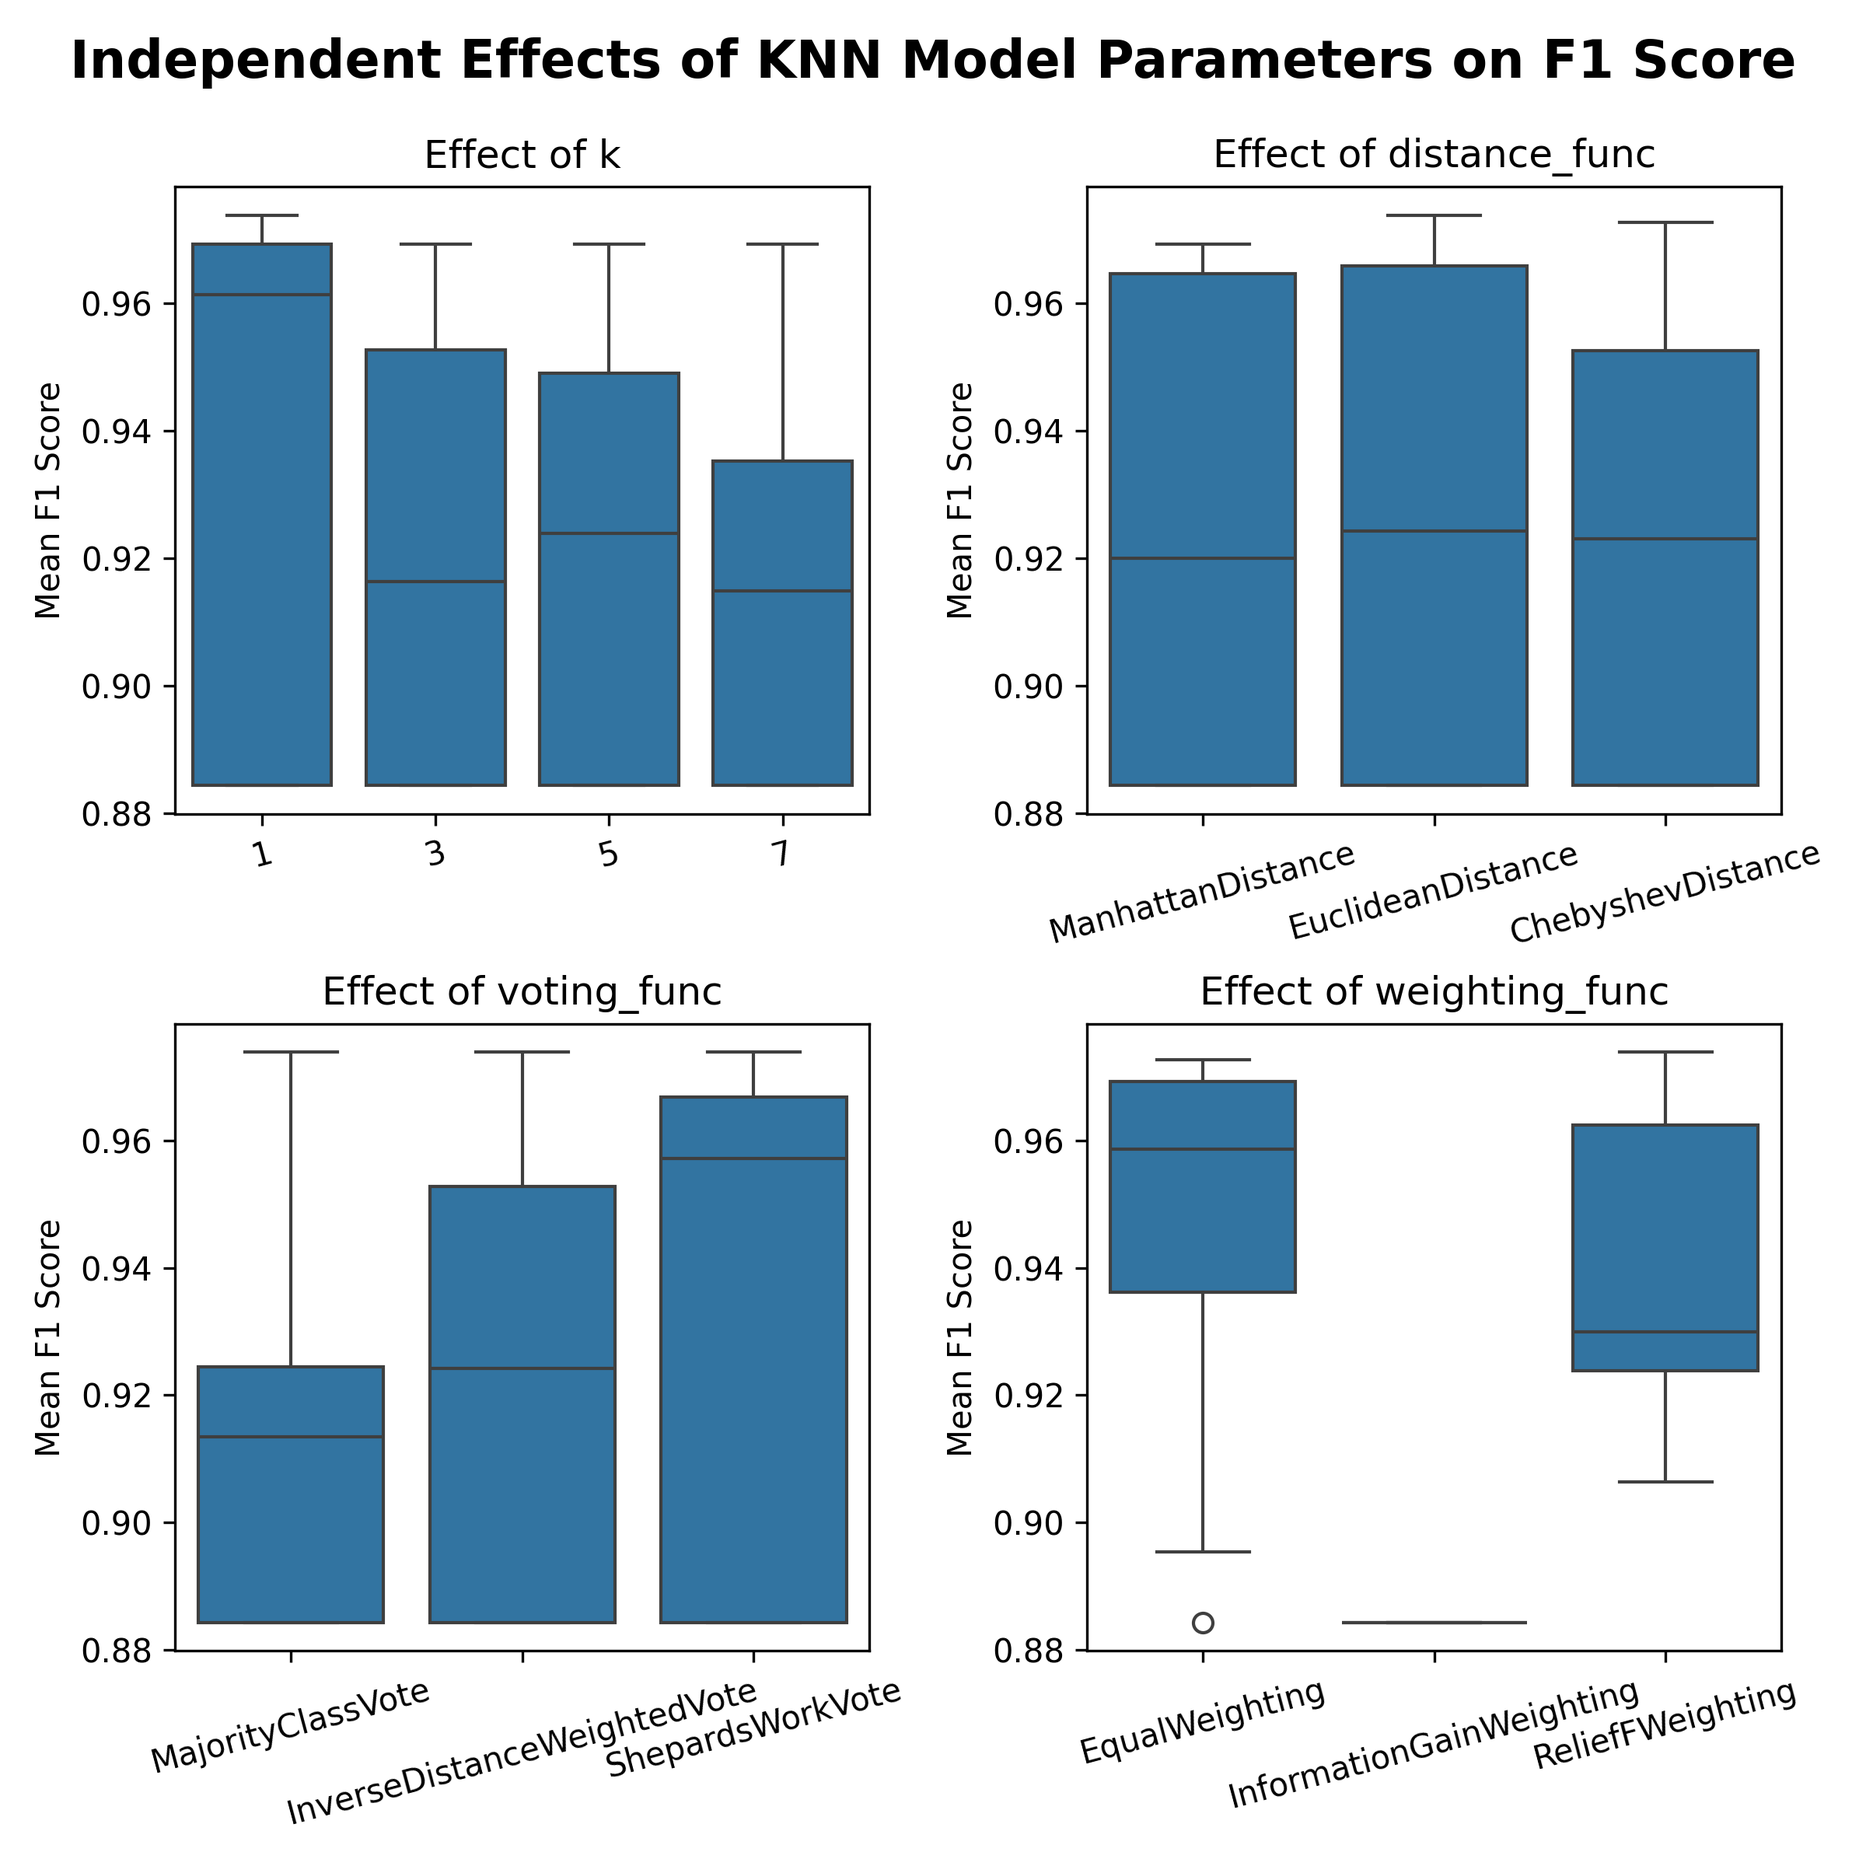
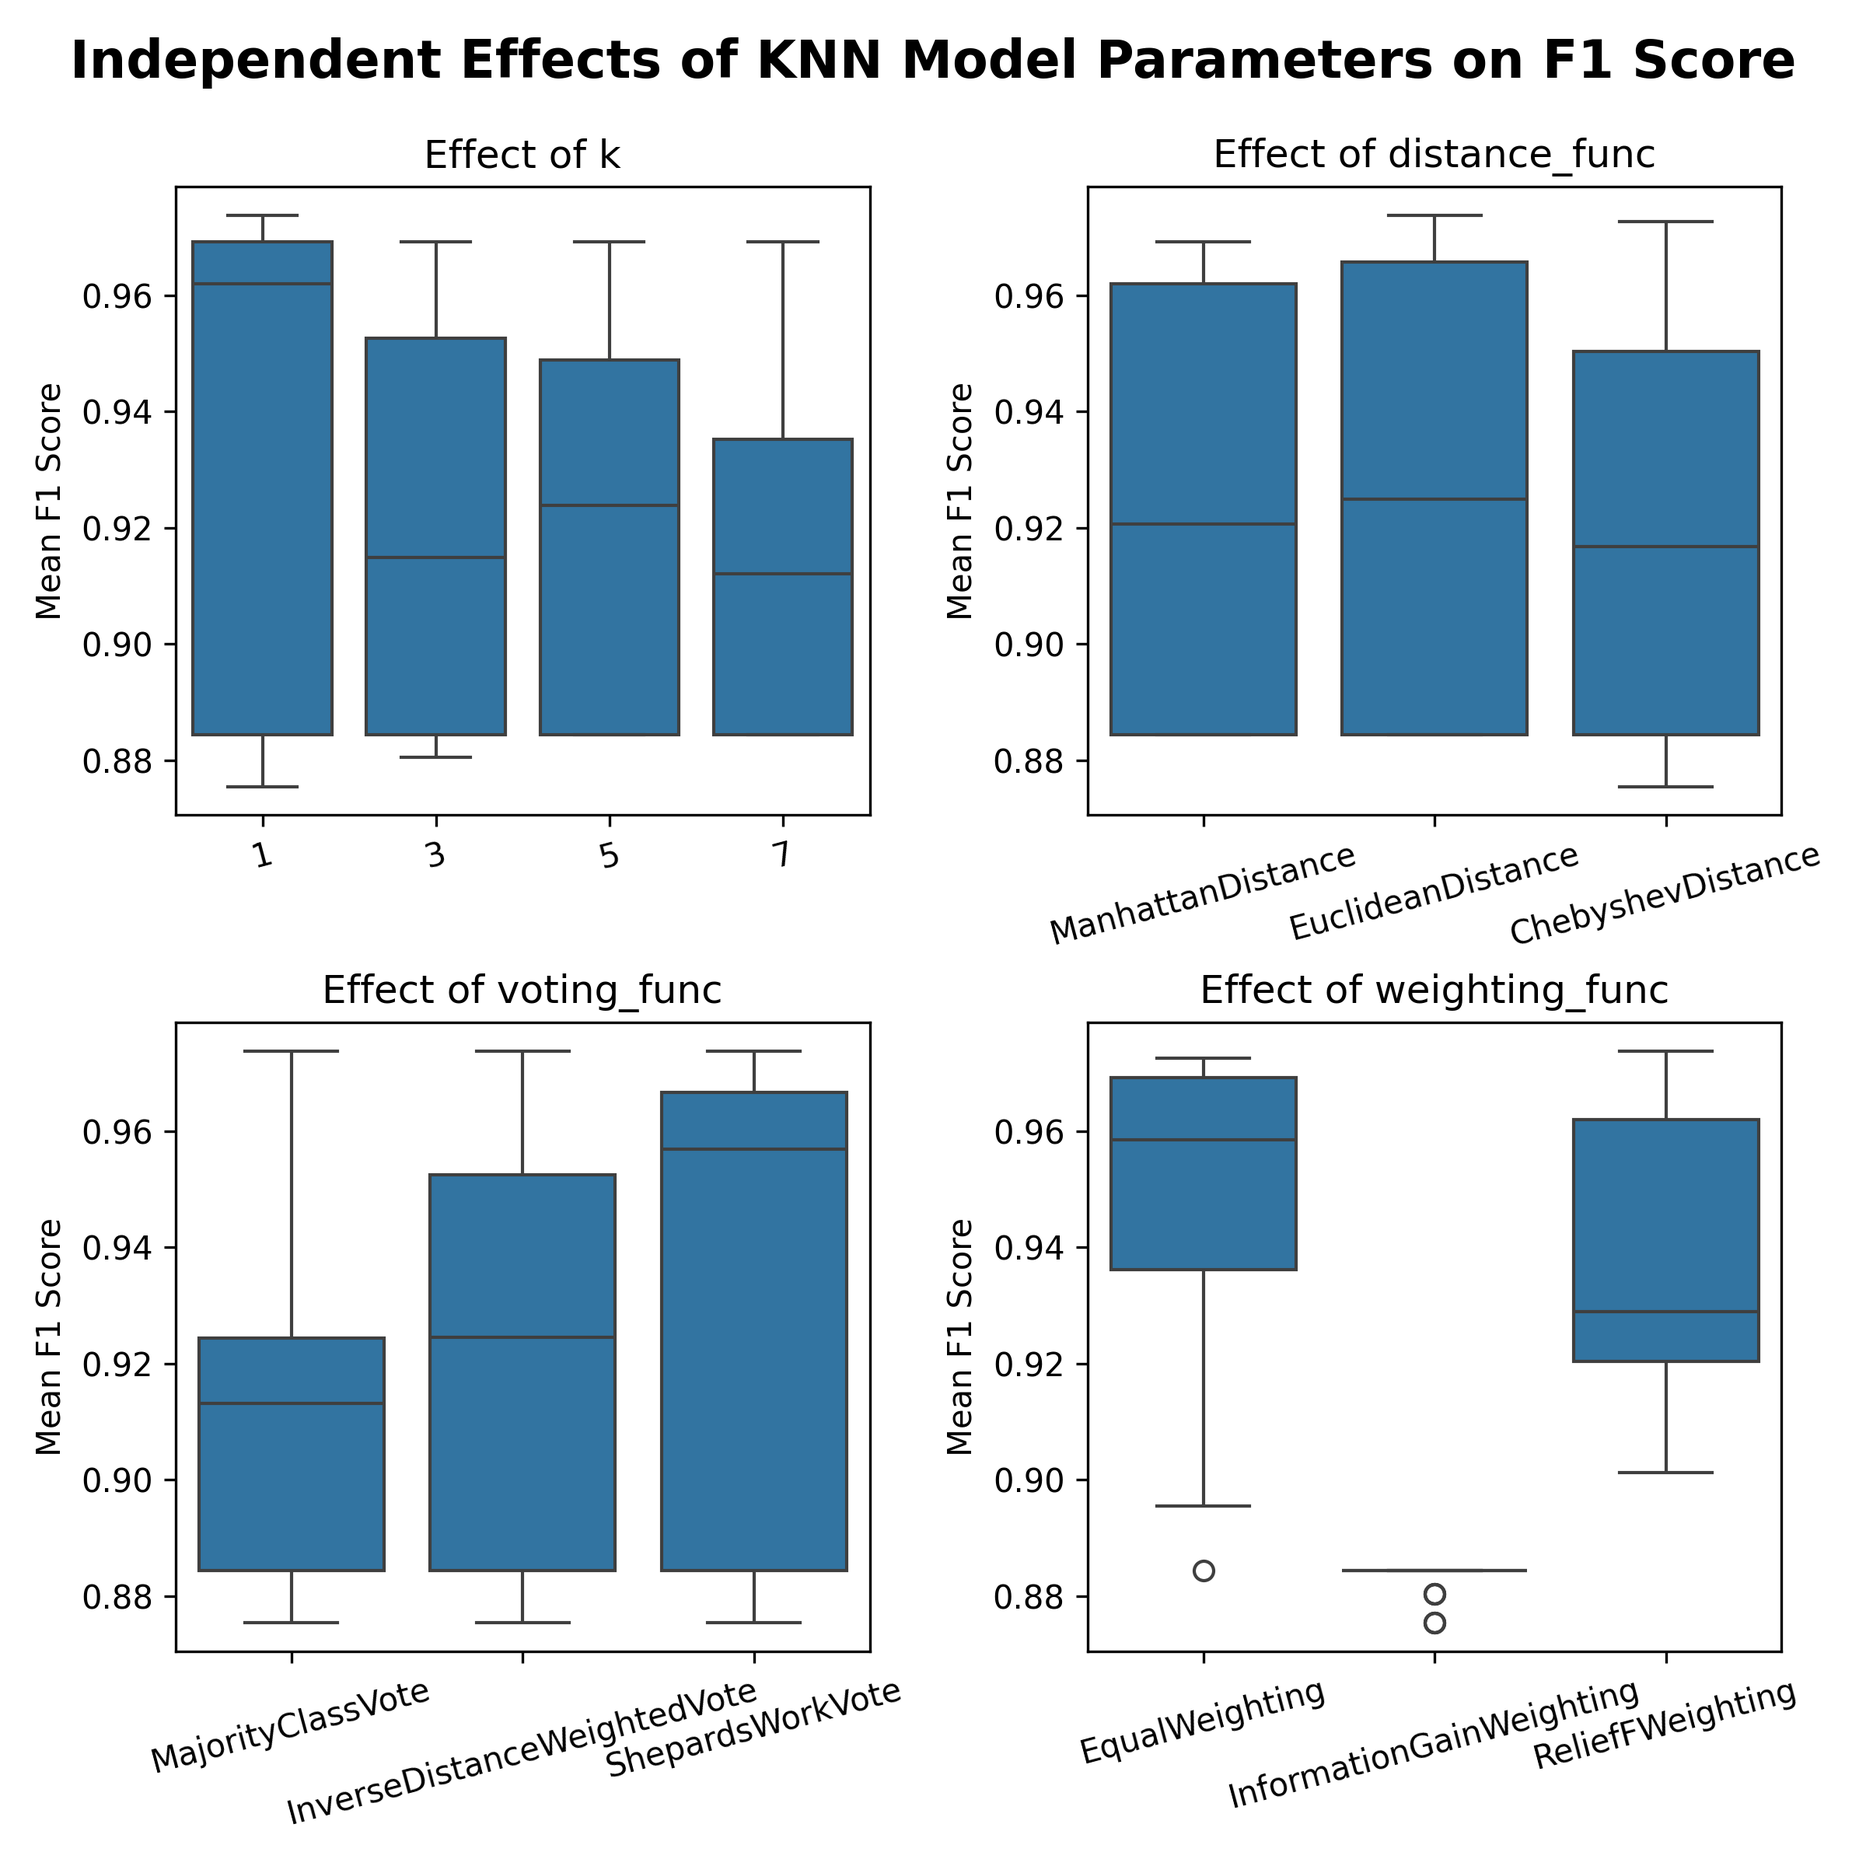
add work2/tools/analysis/statistical_analysis_tools.py and work2/tools/analysis/run_statistical_analysis.py

diff --git a/work2/tools/analysis/statistical_analysis_tools.py b/work2/tools/analysis/statistical_analysis_tools.py
@@ -1,0 +1,216 @@
+import pandas as pd
+import numpy as np
+from scipy import stats
+import scikit_posthocs as sp
+import matplotlib.pyplot as plt
+import seaborn as sns
+import itertools
+import math
+
+plt.style.use('default')
+
+def friedman_test(df_with_f1_per_fold, fold_cols):
+    results = {
+        i: df_with_f1_per_fold.loc[i, fold_cols] for i in df_with_f1_per_fold.index
+    }
+    f1_df = pd.DataFrame(results)
+    statistic, p_value = stats.friedmanchisquare(*[f1_df[k] for k in f1_df])
+    return statistic, p_value
+
+def linear_sample(df_with_f1_per_fold, num_samples=8):
+    num_samples = min(num_samples, len(df_with_f1_per_fold))
+    samples_indices = np.linspace(0, len(df_with_f1_per_fold)-1, num_samples, dtype=int)
+    return df_with_f1_per_fold.loc[samples_indices, :]
+
+def top_samples(df_with_f1_per_fold, num_samples=8):
+    num_samples = min(num_samples, len(df_with_f1_per_fold))
+    return df_with_f1_per_fold.sort_values(by='mean_f1_score', ascending=False).head(num_samples)
+
+def get_p_values_df(model_results_dfs, models=['KNN', 'SVM', 'KNN-Reduction'], num_sample_options=[4, 8, 16], sample_types=['linear', 'top']):
+    data = []
+
+    for sample_type, num_samples, (model, df) in itertools.product(sample_types, num_sample_options, zip(models, model_results_dfs)):
+        sample_func = linear_sample if sample_type == 'linear' else top_samples
+
+        p_value = friedman_test(sample_func(df, num_samples))[1]
+        data.append({
+            'model': model,
+            'num_samples': num_samples,
+            'sample_type': sample_type,
+            'p_value': p_value,
+            'significant': p_value < 0.05
+        })
+
+    return pd.DataFrame(data)
+
+# TODO: only plot one point for KNN-Reduction
+def plot_p_values_vs_num_samples(axes, p_values_df, models, sample_types, num_sample_options):
+    for idx, model in enumerate(models):
+        model_data = p_values_df[p_values_df['model'] == model]
+        
+        for sample_type in sample_types:
+            data = model_data[model_data['sample_type'] == sample_type]
+            
+            # Plot the line
+            axes[idx].plot(data['num_samples'], data['p_value'], marker='o', label=f"{sample_type} sampling")
+            
+            # Scatter significant points (green circle)
+            significant = data[data['significant']]
+            axes[idx].scatter(significant['num_samples'], significant['p_value'], 
+                            color='green', marker='o', s=100, zorder=3)
+            
+            # Scatter non-significant points (red x)
+            non_significant = data[~data['significant']]
+            axes[idx].scatter(non_significant['num_samples'], non_significant['p_value'], 
+                            color='red', marker='x', s=100, zorder=3)
+        
+        axes[idx].set_title(f'{model}')
+        if idx == 0:  # Only show y-label for first subplot
+            axes[idx].set_ylabel('P-value')
+        axes[idx].set_yscale('log')  # Log scale for y-axis
+        axes[idx].set_xscale('log')  # Log scale for x-axis
+        axes[idx].set_xticks(num_sample_options)
+        axes[idx].set_xticklabels(num_sample_options)
+        axes[idx].axhline(y=0.05, color='r', linestyle='--', alpha=0.5, label='Significance Threshold')  # Add significance threshold line
+        axes[idx].grid(True)
+        axes[idx].legend()
+
+
+    axes[len(axes)//2].set_xlabel('Number of Samples')
+
+
+def plot_independent_effects(df, col_names):
+    rows = math.ceil(len(col_names)/2)
+    fig, axes = plt.subplots(rows, 2, figsize=(8, 4*rows))
+    
+    for ax, col_name in zip(axes.flatten(), col_names):
+        sns.boxplot(data=df, x=col_name, y='mean_f1_score', ax=ax)
+        ax.set_xticks(ax.get_xticks())
+        ax.set_xticklabels(ax.get_xticklabels(), rotation=15)
+        ax.set_title(f"Effect of {col_name}")
+        ax.set_ylabel('Mean F1 Score')
+        ax.set_xlabel('')
+    
+    plt.tight_layout()
+    return fig
+
+def plot_interactions(df, col_names):
+    num_cols = len(col_names)
+    fig, axes = plt.subplots(num_cols, num_cols, figsize=(4*num_cols, 4*num_cols))
+    
+    # Make axes 2D if it's 1D
+    if num_cols == 1:
+        axes = np.array([[axes]])
+    elif num_cols == 2:
+        axes = np.array([[axes[0]], [axes[1]]])
+
+    for i, ((col_name1, col_name2), ax) in enumerate(zip(itertools.product(col_names, repeat=2), axes.flatten())):
+        if col_name1 == col_name2:
+            # Diagonal plots: show distribution for single variable
+            sns.boxplot(data=df, x=col_name1, y='mean_f1_score', ax=ax)
+        else:
+            # Off-diagonal plots: show interaction between variables
+            pivot_table = df.pivot_table(
+                values='mean_f1_score',
+                index=col_name1,
+                columns=col_name2,
+                aggfunc='mean'
+            )
+            sns.heatmap(pivot_table, ax=ax, cmap='coolwarm', annot=True, fmt='.3f', cbar=False)
+            
+        # Remove all ticks initially
+        ax.set_xticks([])
+        ax.set_yticks([])
+        ax.set_xlabel('')
+        ax.set_ylabel('')
+
+    # Add row labels and y-ticks only on the leftmost plots
+    for i in range(num_cols):
+        if i == 0:  # First row special case
+            axes[i, 0].set_ylabel(col_names[i], fontsize=20, rotation=90)
+        else:
+            axes[i, 0].set_ylabel(col_names[i], fontsize=20, rotation=90)
+            axes[i, 0].set_yticks(np.arange(len(df[col_names[i]].unique())) + 0.5)
+            axes[i, 0].set_yticklabels(df[col_names[i]].unique(), rotation=15)
+
+    # Add column labels and x-ticks only on the bottom plots
+    for j in range(num_cols):
+        if j == num_cols - 1:
+            axes[-1, j].set_xticks(np.arange(len(df[col_names[j]].unique())))
+        else:
+            axes[-1, j].set_xticks(np.arange(len(df[col_names[j]].unique())) + 0.5)
+        axes[-1, j].set_xticklabels(df[col_names[j]].unique(), rotation=15)
+    
+    plt.tight_layout()
+    return fig
+
+def nemenyi_test(df_with_f1_per_fold, fold_cols):
+    results = {
+        i: df_with_f1_per_fold.loc[i, fold_cols] for i in df_with_f1_per_fold.index
+    }
+    f1_df = pd.DataFrame(results)
+    return sp.posthoc_nemenyi_friedman(f1_df)
+
+def get_top_values(df, col_names, num_to_select=2, models_to_consider=10):
+    top_values = {}
+
+    for col_name in col_names:
+        best_scoring_models = df.sort_values(by='mean_f1_score', ascending=False).head(models_to_consider)
+        top_values[col_name] = best_scoring_models[col_name].value_counts().nlargest(num_to_select).index.tolist()
+
+    return top_values
+
+def get_models_with_top_values(df, top_values): 
+    result= df[df['k'].isin(top_values['k']) &
+              df['distance_func'].isin(top_values['distance_func']) &
+              df['voting_func'].isin(top_values['voting_func']) &
+              df['weighting_func'].isin(top_values['weighting_func'])].sort_values(by='mean_f1_score', ascending=False)
+    result.reset_index(drop=True, inplace=True)
+    return result
+
+
+def analyze_parameters(df, nemenyi_results, alpha=0.05):
+    # 1. Main Effects Analysis
+    print("=== Main Effects ===")
+    for param in ['k', 'weighting_func', 'voting_func', 'distance_func']:
+        means = df.groupby(param)['mean_f1_score'].mean()
+        print(f"\n{param} effects:")
+        print(means)
+        
+    # 2. Interaction Analysis
+    print("\n=== Parameter Interactions ===")
+    interactions = df.groupby(['k', 'weighting_func', 'voting_func', 'distance_func'])['mean_f1_score'].mean().unstack()
+    print(interactions)
+    
+    # 3. Find Best Combinations
+    best_combos = df.nlargest(3, 'mean_f1_score')
+    print("\n=== Top 3 Parameter Combinations ===")
+    print(best_combos[['k', 'weighting_func', 'voting_func', 'distance_func', 'mean_f1_score']])
+    
+    # 4. Statistical Significance Summary
+    print("\n=== Significant Differences ===")
+    alpha = 0.05
+    significant_pairs = []
+    for i in nemenyi_results.index:
+        for j in nemenyi_results.columns:
+            if i < j and nemenyi_results.loc[i, j] < alpha:
+                significant_pairs.append((i, j, nemenyi_results.loc[i, j]))
+    
+    for pair in sorted(significant_pairs, key=lambda x: x[2]):
+        print(f"{pair[0]} vs {pair[1]}: p={pair[2]:.4f}")
+
+
+def get_significant_pairs(nemenyi_results, models_with_top_values, alpha=0.05):
+
+    significant_pairs = []
+    for i in nemenyi_results.index:
+        for j in nemenyi_results.columns:
+            if i < j and nemenyi_results.loc[i, j] < alpha:
+                significant_pairs.append((i, j, nemenyi_results.loc[i, j]))
+
+    significant_pairs_df = models_with_top_values.iloc[list(set(np.array([[pair[0], pair[1]] for pair in significant_pairs]).flatten()))]
+    return significant_pairs_df
+
+
+
+

diff --git a/work2/tools/analysis/run_statistical_analysis.py b/work2/tools/analysis/run_statistical_analysis.py
@@ -1,0 +1,123 @@
+# %%
+import pandas as pd
+import numpy as np
+from scipy import stats
+import scikit_posthocs as sp
+import matplotlib.pyplot as plt
+import seaborn as sns
+import itertools
+import math
+import argparse
+from tools.analysis.statistical_analysis_tools import *
+
+plt.style.use('default')
+
+parser = argparse.ArgumentParser()
+parser.add_argument("--data_dir", type=str, default="data/per_fold_results")
+parser.add_argument("--figures_dir", type=str, default="reports/figures")
+args = parser.parse_args()
+
+DATA_DIR = args.data_dir
+FIGURES_DIR = args.figures_dir
+
+# %%
+knn_results_hepatitis = pd.read_csv(f"{DATA_DIR}/knn_hepatitis.csv")
+# knn_results_mushroom = pd.read_csv(f"{DATA_DIR}/knn_mushroom.csv")
+knn_reduction_results_hepatitis = pd.read_csv(f"{DATA_DIR}/knn_reduction_hepatitis.csv")
+# knn_reduction_results_mushroom = pd.read_csv(f"{DATA_DIR}/knn_reduction_mushroom.csv")
+svm_results_hepatitis = pd.read_csv(f"{DATA_DIR}/svm_hepatitis.csv")
+# svm_results_mushroom = pd.read_csv(f"{DATA_DIR}/svm_mushroom.csv")
+
+# %%
+fold_cols = [f'fold{i}' for i in range(1, 11)]
+
+for df in [knn_results_hepatitis, knn_reduction_results_hepatitis, svm_results_hepatitis]:
+    df['mean_f1_score'] = df.loc[:, fold_cols].mean(axis=1)
+    df['std_f1_score'] = df.loc[:, fold_cols].std(axis=1)
+
+
+
+# %%
+num_sample_options = [4, 8, 16]
+sample_types = ['linear', 'top']
+models = ['KNN', 'SVM', 'KNN-Reduction']
+dataframes = [knn_results_hepatitis, svm_results_hepatitis, knn_reduction_results_hepatitis]
+data = []
+
+for sample_type, num_samples, (model, df) in itertools.product(sample_types, num_sample_options, zip(models, dataframes)):
+    sample_func = linear_sample if sample_type == 'linear' else top_samples
+    
+    p_value = friedman_test(sample_func(df, num_samples), fold_cols)[1]
+    data.append({
+        'model': model,
+        'num_samples': num_samples,
+        'sample_type': sample_type,
+        'p_value': p_value,
+        'significant': p_value < 0.05
+    })
+
+p_values_df = pd.DataFrame(data)
+
+p_values_df
+
+# %%
+# TODO: only plot one point for KNN-Reduction
+
+fig, axes = plt.subplots(1, 3, figsize=(15, 5), sharex=True, sharey=True)
+fig.suptitle('P-values vs Number of Samples for Different Models and Sampling Methods')
+
+plot_p_values_vs_num_samples(axes, p_values_df, models, sample_types, num_sample_options)
+
+plt.tight_layout()
+fig.savefig(f'{FIGURES_DIR}/p_values_vs_num_samples.png', dpi=300)
+plt.show()
+
+
+# %%
+fig = plot_independent_effects(knn_results_hepatitis, ['k', 'distance_func', 'voting_func', 'weighting_func'])
+fig.suptitle('Independent Effects of KNN Model Parameters on F1 Score', fontsize=16, fontweight='bold')
+fig.subplots_adjust(top=0.9)
+fig.savefig(f'{FIGURES_DIR}/independent_effects_KNN.png', dpi=300)
+plt.show()
+
+
+# %%
+fig = plot_independent_effects(svm_results_hepatitis, ['C', 'kernel_type'])
+fig.suptitle('Independent Effects of SVM Model Parameters on F1 Score', fontsize=16, fontweight='bold')
+fig.subplots_adjust(top=0.85)
+fig.savefig(f'{FIGURES_DIR}/independent_effects_SVM.png', dpi=300)
+plt.show()
+
+# %%
+fig = plot_interactions(knn_results_hepatitis, ['k', 'distance_func', 'voting_func', 'weighting_func'])
+fig.suptitle('Interaction Effects of KNN Model Parameters on F1 Score', fontsize=20, fontweight='bold')
+fig.subplots_adjust(top=0.95)
+fig.savefig(f'{FIGURES_DIR}/interaction_effects_KNN.png', dpi=300)
+plt.show()
+
+knn_col_names = ['k', 'distance_func', 'voting_func', 'weighting_func']
+top_values = get_top_values(knn_results_hepatitis, knn_col_names, num_to_select=2, models_to_consider=10)
+
+models_with_top_values = get_models_with_top_values(knn_results_hepatitis, top_values)
+
+
+# %%
+nemenyi_results = nemenyi_test(models_with_top_values, fold_cols)
+nemenyi_results
+
+
+# %%
+
+fig, ax = plt.subplots(figsize=(12, 12))
+sns.heatmap(nemenyi_results, fmt='.2f', annot=True, cmap='coolwarm', ax=ax, cbar=False)
+fig.suptitle('Nemenyi Test Results for KNN Models with Top Values', fontsize=20, fontweight='bold')
+fig.savefig(f'{FIGURES_DIR}/nemenyi_test_results_KNN.png', dpi=300)
+plt.tight_layout()
+plt.show()
+
+analyze_parameters(models_with_top_values, nemenyi_results)
+
+significant_pairs_df = get_significant_pairs(nemenyi_results, models_with_top_values)
+
+
+
